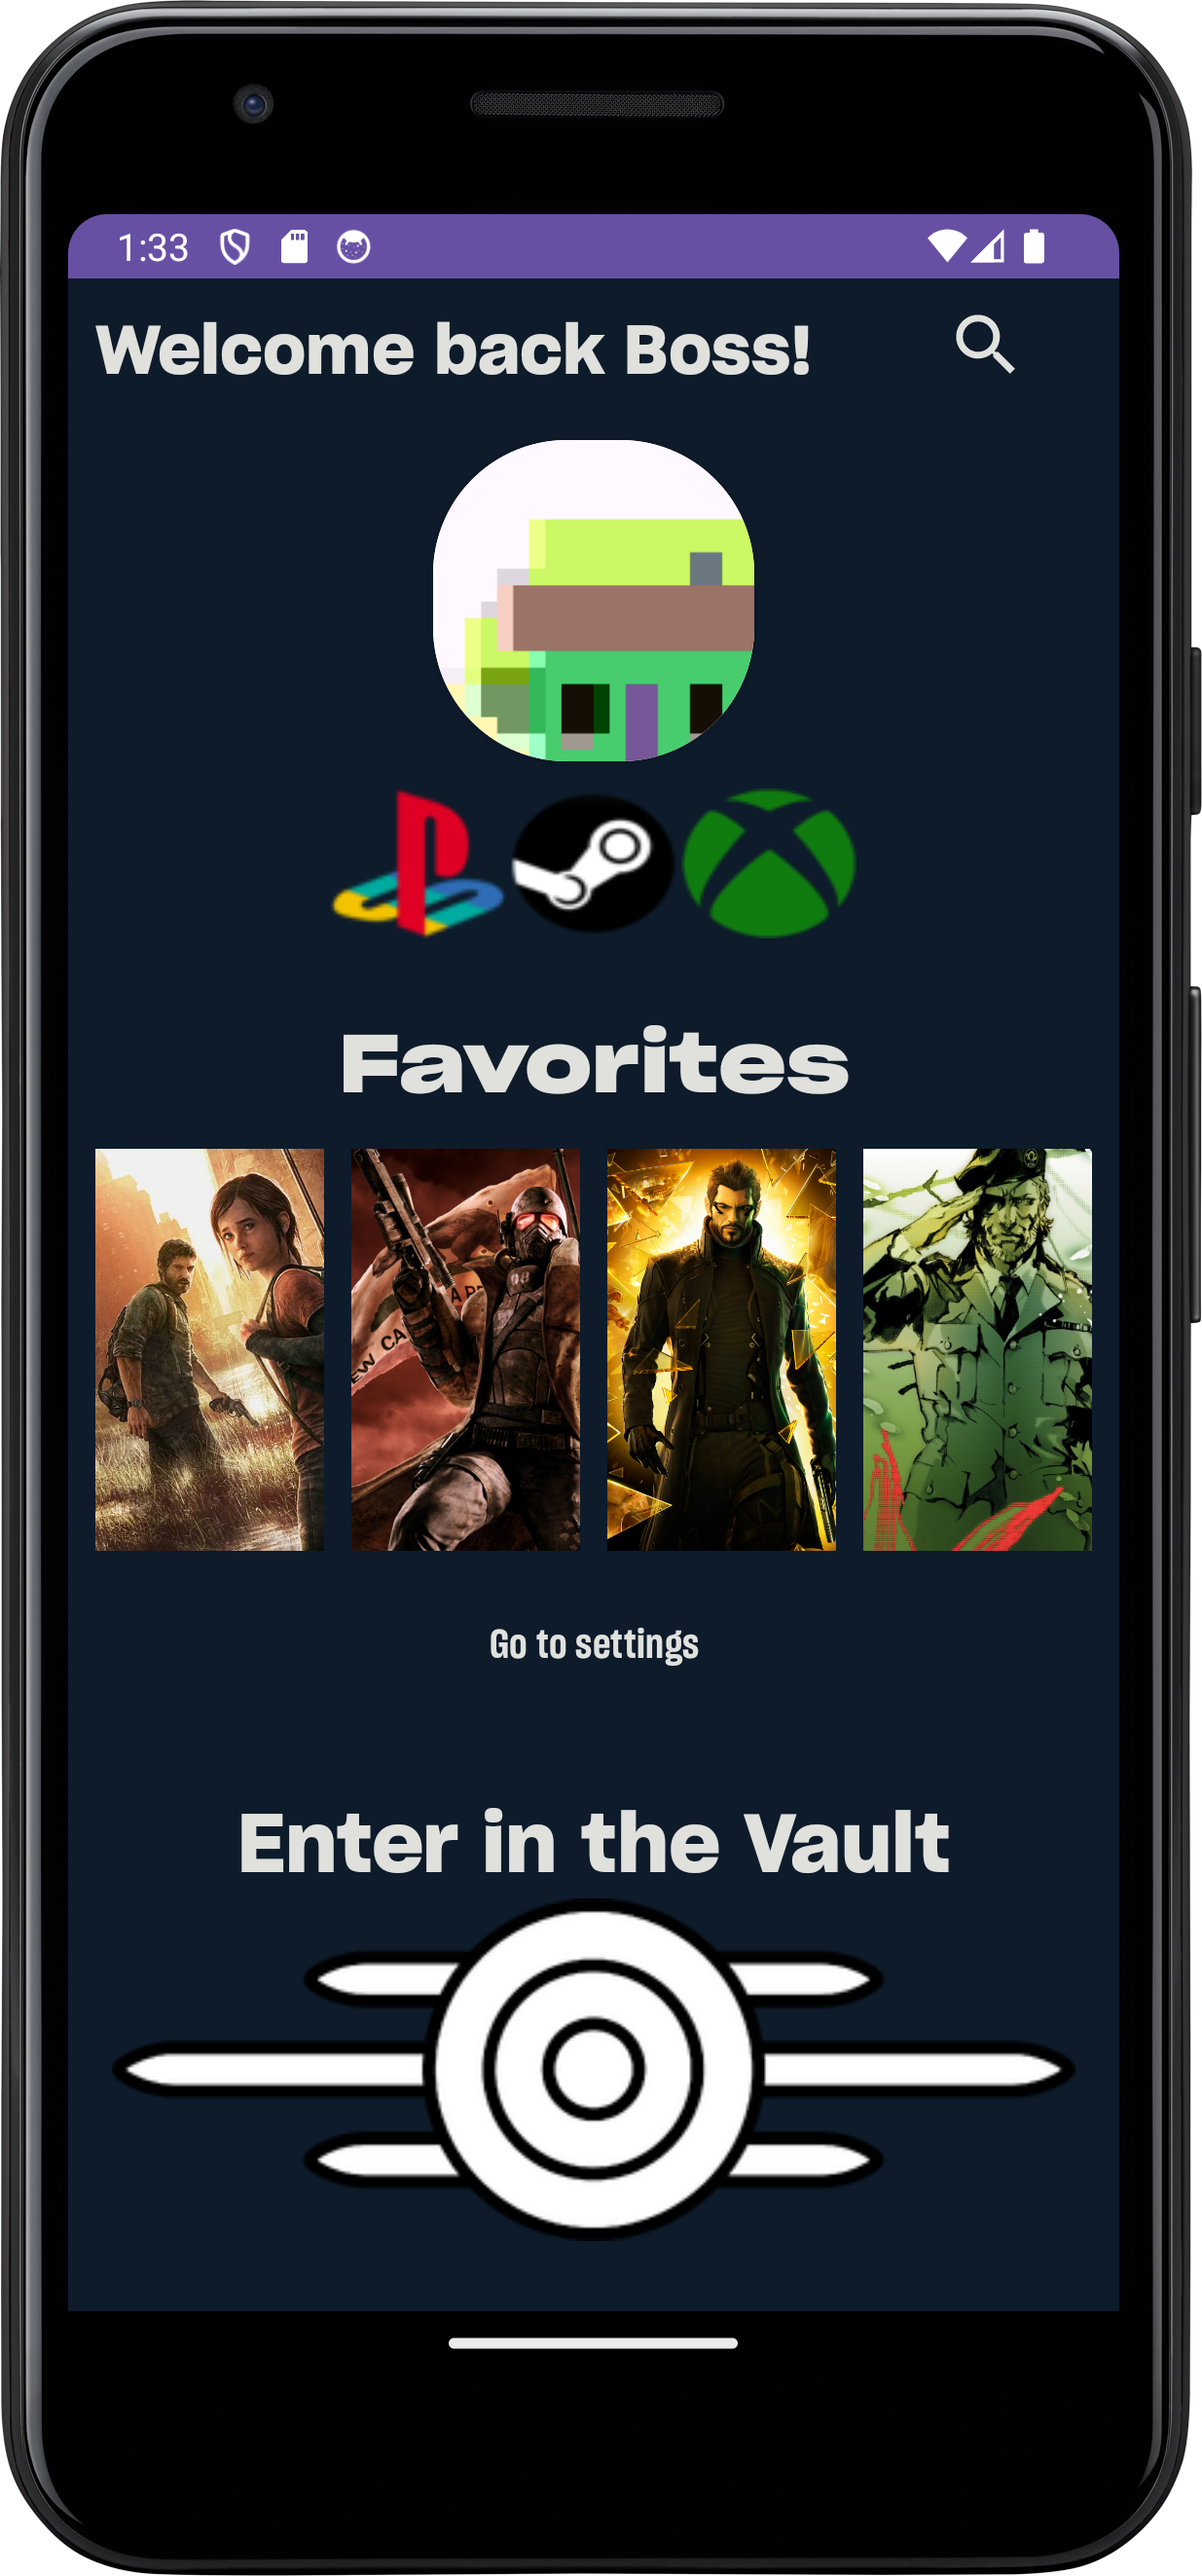
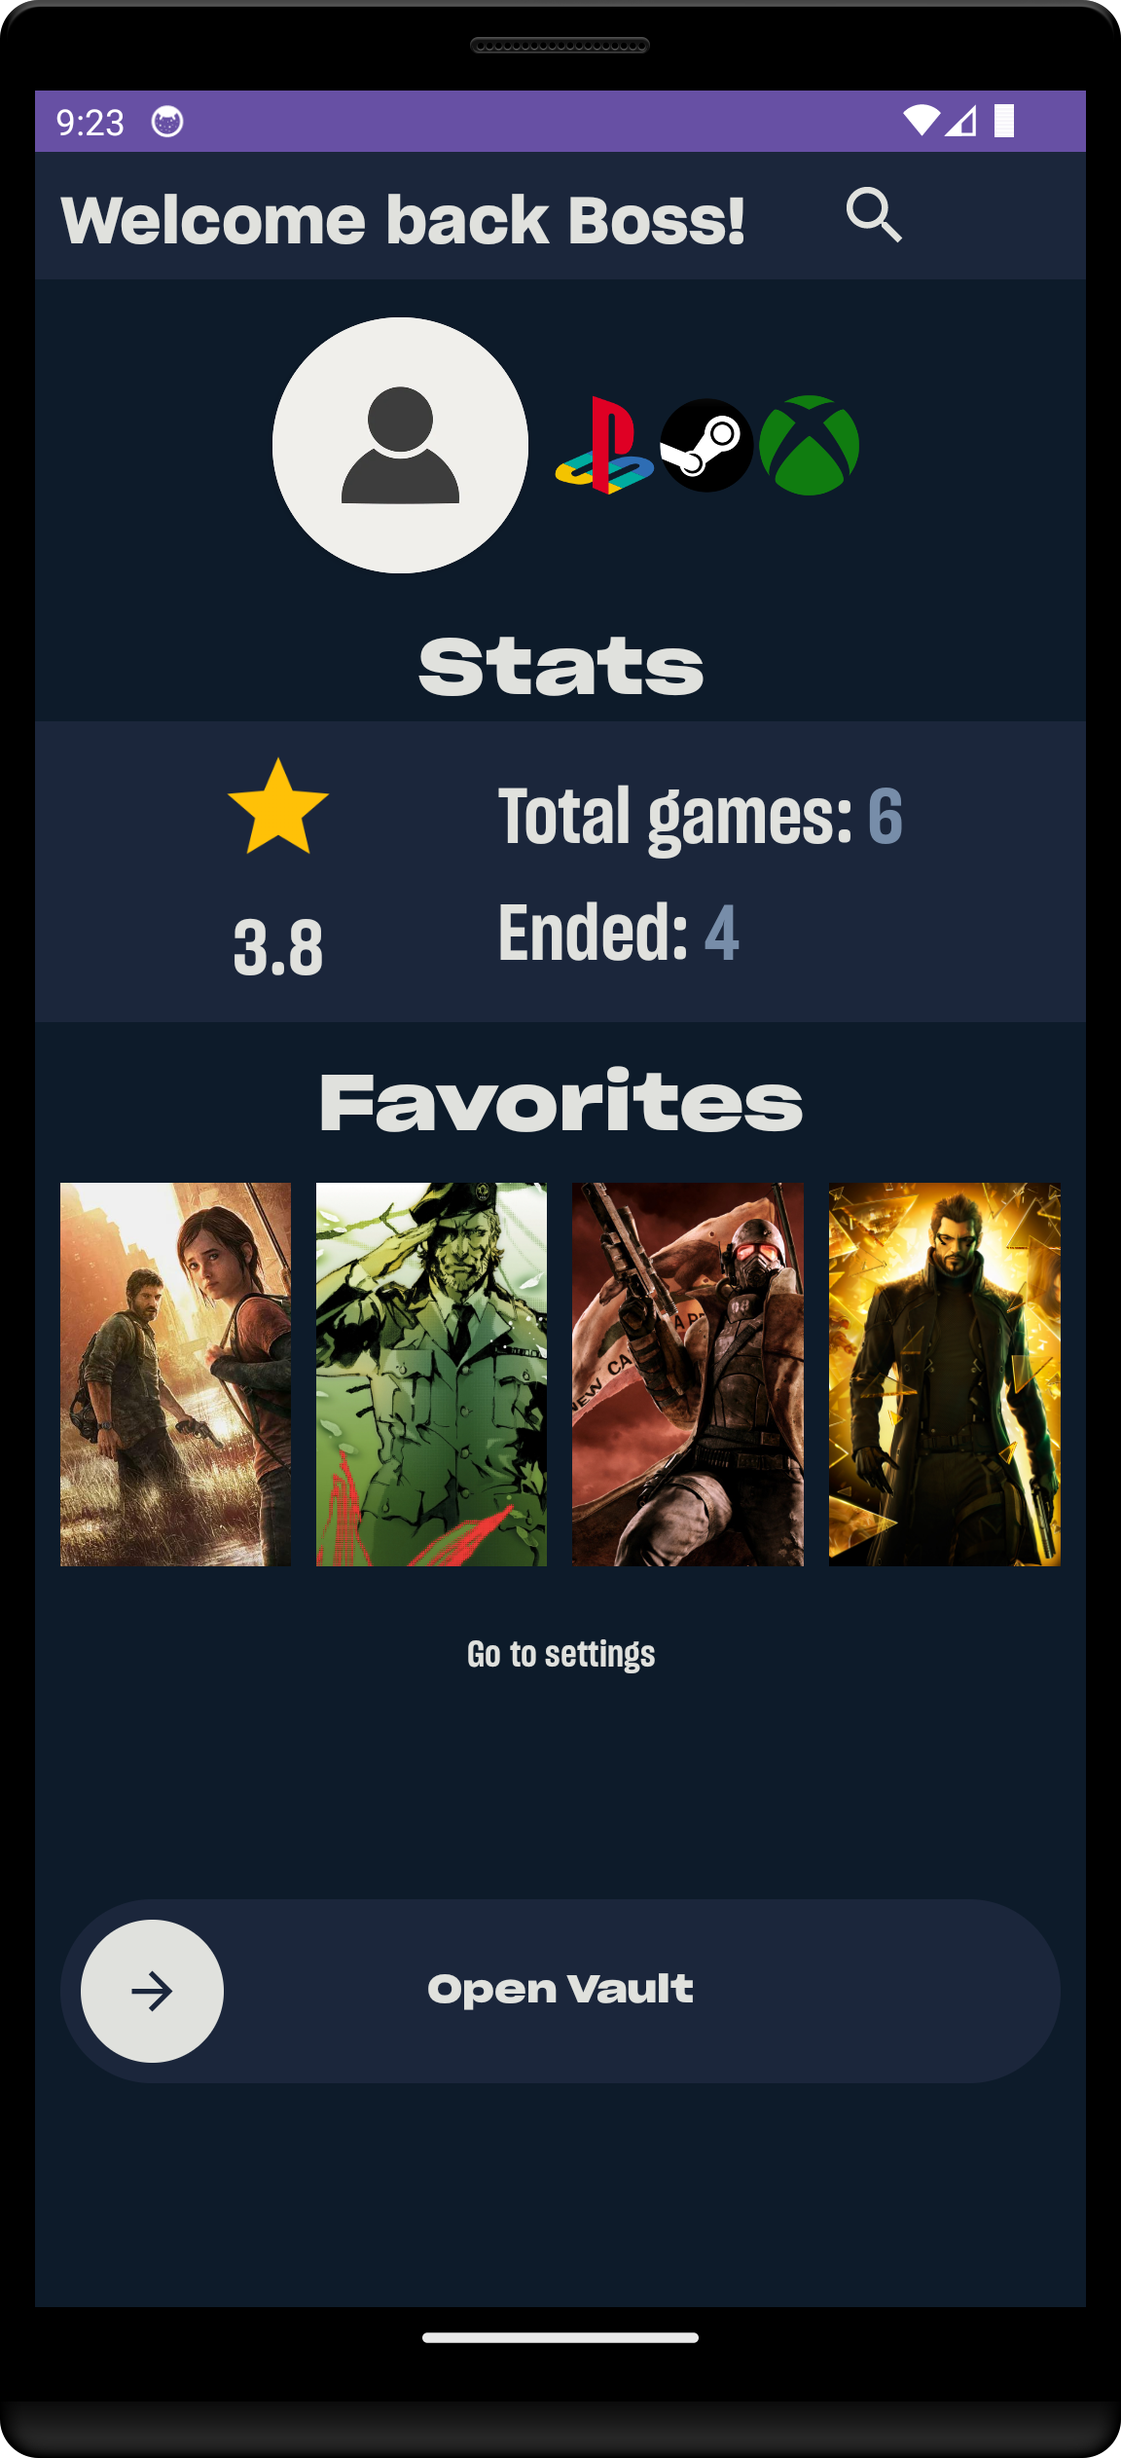
Modify README

diff --git a/README.md b/README.md
@@ -60,7 +60,7 @@ The inspiration for the app is the site [LetterBoxd](https://letterboxd.com) whe
 
 - [ ] A whislist.
 
-- [ ] User stats, like: number of games added, average ratings, number of games finished.
+- [x] User stats, like: number of games added, average ratings, number of games finished.
 
 - [ ] Online function (very unlikely).
 
